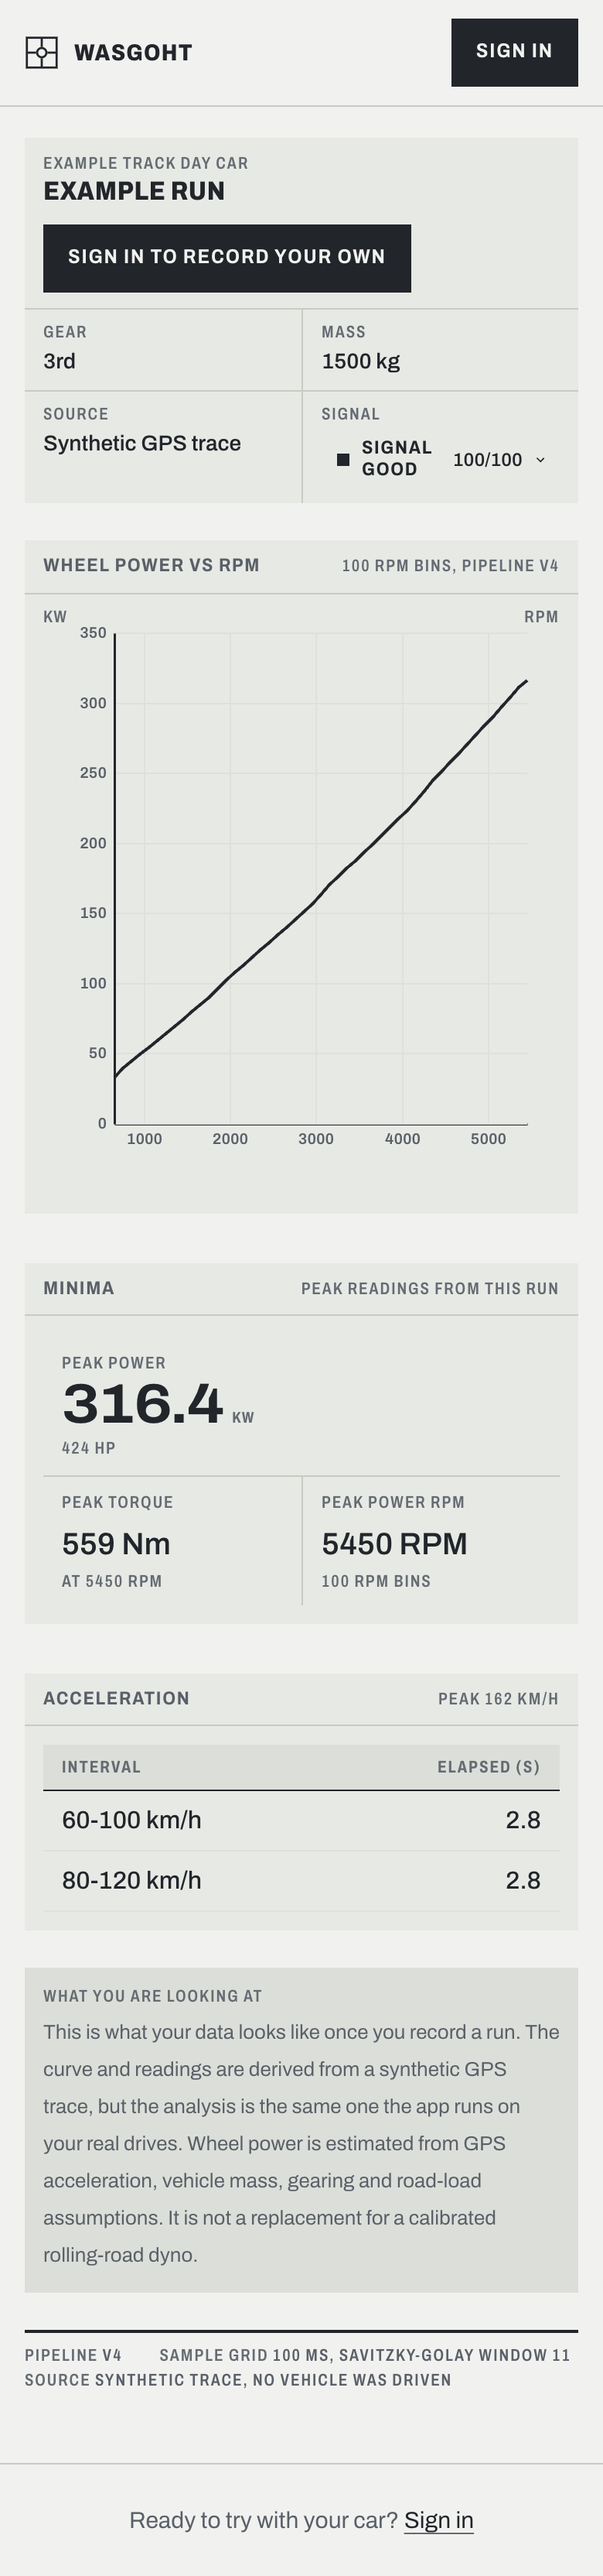
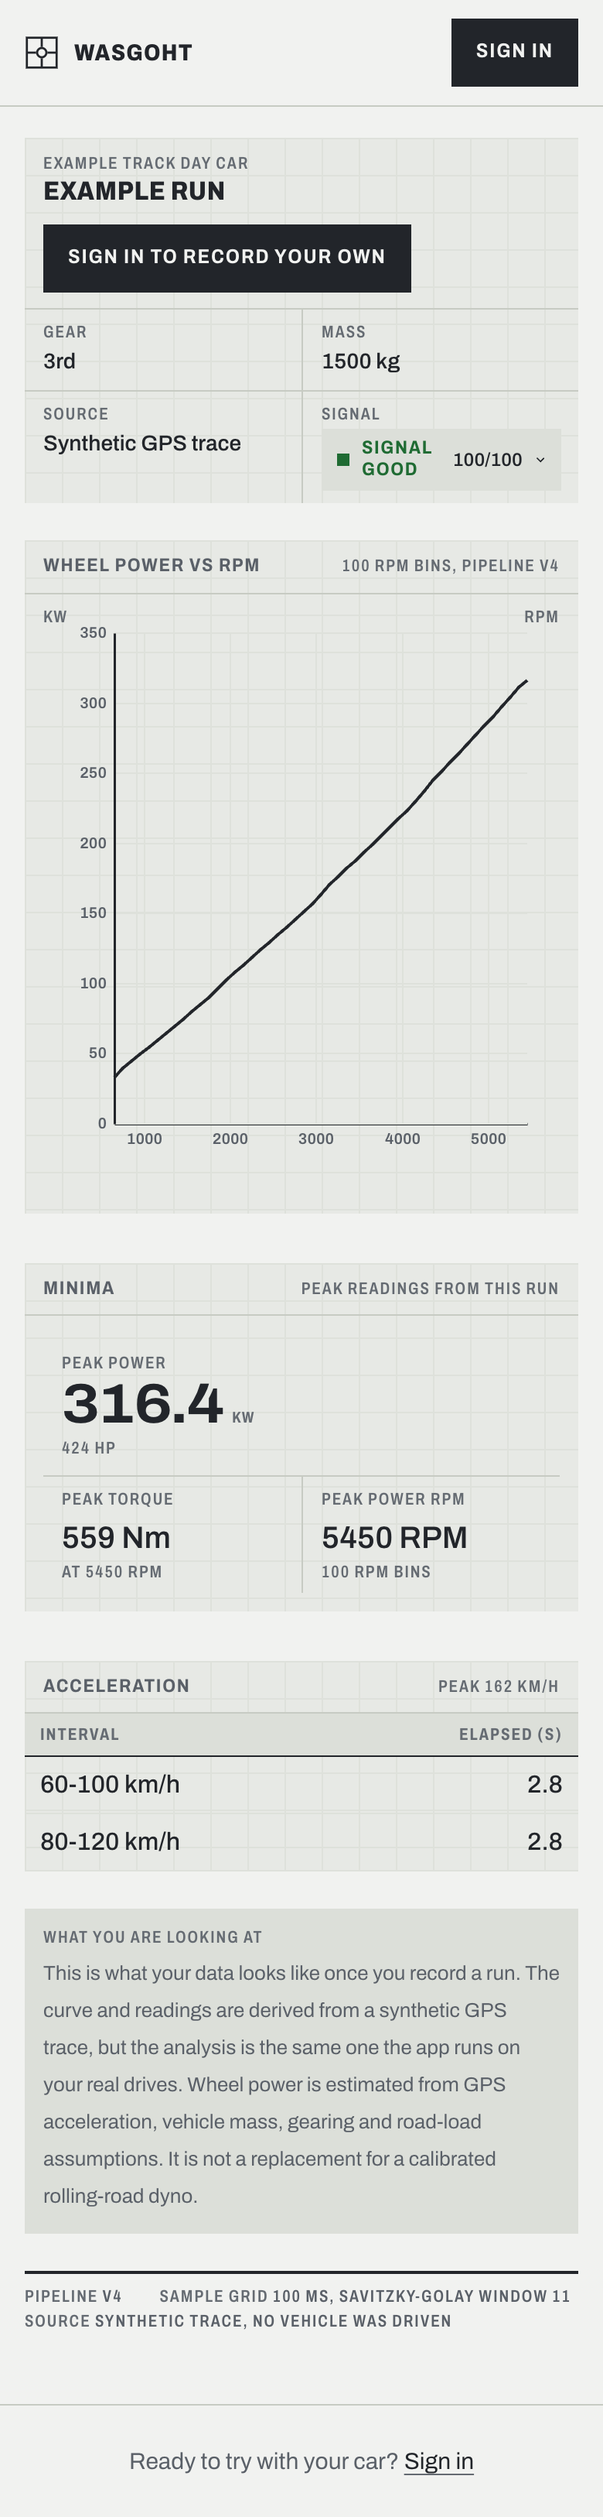
Rebuild all three surfaces on Grid Specimen
The landing page is a Persuade surface again rather than an instrument
sheet. One dark accent plane opens it: monumental type, the four real
pipeline figures, and the track photograph edge to edge inside the same
plane so the opening reads as one object. Statements then sit on the bare
sheet with air, evidence sits on planes, and the plots are drawn large
enough to be focal rather than thumbnails in a side column. Both honesty
caveats moved into real advisory blocks, which is the page's only spent
colour and means exactly what the system says amber means.

Grip's continuity is fixed at the root and at five call sites. The shared
primitive now puts every label in a band inside its block; Grip had five
more blocks setting a local heading above an unlabelled frame, including
one that was the exact inversion (an unframed Zone wrapping a framed
child). DynoRun had four of the same, plus an eyebrow in the cookie
notice.

Density: eleven Zones in Grip and every qualifying Zone in DynoRun now
let the child own its padding, stacks and grid gaps stepped down, table
rows compacted onto the cell rhythm. The trackside screens keep their
76px targets and monumental figures, because those are read at arm's
length through a visor.

Traffic light where it earns it: run quality, signal verdict, GPS lock,
calibration stability, deltas, aborted and degraded states. Two hue
misuses corrected rather than recoloured: load transfer and the duty bar
[…]

diff --git a/src/ui/plate/plate.tsx b/src/ui/plate/plate.tsx
@@ -126,11 +126,18 @@ export function Zone({
 export function PlanView({
   label,
   scale,
+  actions,
   legend,
   children,
 }: {
   label: string;
   scale?: string;
+  /**
+   * Controls that belong to this view (chart mode, an expert toggle). They sit
+   * in the head band with the label, because a control row floating above the
+   * block is the second heading convention this system exists to prevent.
+   */
+  actions?: ReactNode;
   legend?: ReactNode;
   children: ReactNode;
 }) {
@@ -139,6 +146,7 @@ export function PlanView({
       <figcaption className="block-head">
         <span className="t-label">{label}</span>
         {scale && <span className="t-annotation">{scale}</span>}
+        {actions && <div className="ml-auto flex items-center gap-2">{actions}</div>}
       </figcaption>
       <div className="relative">{children}</div>
       {legend && <div className="rule-t block-body">{legend}</div>}
@@ -177,8 +185,11 @@ export function ProfileView({
  * worth is a stated product principle, so it gets a designated place.
  */
 export function NotesBox({ title = 'Notes', children }: { title?: string; children: ReactNode }) {
+  // The plane comes to the prose measure rather than the prose being stretched
+  // to the plane: .t-body caps at 68ch, so a full-width notes block left most
+  // of every row as empty field inside a filled plane.
   return (
-    <aside className="plane-2 block-body">
+    <aside className="plane-2 block-body max-w-[62rem]">
       <p className="t-annotation mb-1.5">{title}</p>
       <div className="t-body text-[0.8125rem] leading-6">{children}</div>
     </aside>

diff --git a/src/index.css b/src/index.css
@@ -78,6 +78,12 @@
   --ease-plate: cubic-bezier(0.16, 1, 0.3, 1);
 }
 
+:root {
+  /* Resolved against :root's own ink, so .plane-ink can redefine every ink
+     token for its descendants without changing the ground it sits on. */
+  --accent-ground: var(--color-ink);
+}
+
 /* The night plate. A real affordance of the world (charts ship a night
    variant), not a bolted-on dark mode. Magenta and amber brighten because the
    sheet went dark; terrain drops back so the ink still leads. */
@@ -537,7 +543,18 @@
      screen exists for. Inverted and gridded in its own ink, so it is the first
      thing seen and still belongs to the same armature. */
   .plane-ink {
-    background-color: var(--color-ink);
+    /* Redefining the ink scale here, rather than listing every register in a
+       descendant rule, is what makes the accent plane usable with primitives
+       that set colour inline: an inline `var(--color-ink-3)` now resolves to
+       the inverted value instead of rendering ink on ink at 2.9:1. */
+    --color-ink: var(--color-sheet);
+    --color-ink-2: color-mix(in srgb, var(--color-sheet) 80%, transparent);
+    --color-ink-3: color-mix(in srgb, var(--color-sheet) 64%, transparent);
+    --color-grid: color-mix(in srgb, var(--color-sheet) 10%, transparent);
+    --color-grid-strong: color-mix(in srgb, var(--color-sheet) 22%, transparent);
+    --color-plane-2: color-mix(in srgb, var(--color-sheet) 14%, transparent);
+
+    background-color: var(--accent-ground);
     color: var(--color-sheet);
     background-image:
       repeating-linear-gradient(

diff --git a/src/ui/calibration/calibration-step-measure.tsx b/src/ui/calibration/calibration-step-measure.tsx
@@ -21,9 +21,6 @@ import {
   type MotionFusionState,
 } from '@/sensors/motion-fusion';
 
-// See ACCENT_INK_3 in run-review-screen.tsx: `.plane-ink` cannot reach the
-// inline ink-3 on Readout's unit, so the property is overridden here.
-const ACCENT_INK_3 = '[--color-ink-3:color-mix(in_srgb,var(--color-sheet)_68%,transparent)]';
 
 interface Props {
   vehicleId: string;
@@ -219,7 +216,7 @@ export function CalibrationStepMeasure({ vehicleId, gear, onConfirmed, onCancel 
             note={`${gear.gear_label}, target ${gear.user_rpm.toLocaleString()} RPM`}
             accent={displaySpeed != null}
             flush
-            className={displaySpeed != null ? ACCENT_INK_3 : ''}
+           
           >
             <div className="px-3 py-4">
               {displaySpeed == null ? (
@@ -312,7 +309,7 @@ export function CalibrationStepMeasure({ vehicleId, gear, onConfirmed, onCancel 
       )}
 
       {state.kind === 'stable' && (
-        <Zone label="Captured" note="Steady hold locked" accent flush className={ACCENT_INK_3}>
+        <Zone label="Captured" note="Steady hold locked" accent flush>
           <div className="px-3 py-4">
             <Readout
               label="Captured speed"

diff --git a/src/ui/run/run-review-screen.tsx b/src/ui/run/run-review-screen.tsx
@@ -57,16 +57,6 @@ const PLAN_LABEL: Record<CurveDisplayMode, string> = {
   both: 'Power and torque vs RPM',
 };
 
-/**
- * Stopgap for a gap in `.plane-ink`: it remaps the label and annotation
- * registers onto the inverted ground but not the annotation *ink* itself, and
- * `Readout` sets its unit's colour inline from `--color-ink-3`, which no
- * descendant rule can beat. Left as-is that unit reads at 2.85:1 on the accent
- * plane. Overriding the property here is inherited by the inline style and
- * lands it at the same 7:1 the annotation register already gets. Delete this
- * the moment `src/index.css` covers `.plane-ink .na` and Readout's unit.
- */
-const ACCENT_INK_3 = '[--color-ink-3:color-mix(in_srgb,var(--color-sheet)_68%,transparent)]';
 
 function oppositeUnit(unit: PowerUnit): PowerUnit {
   return unit === 'kW' ? 'hp' : 'kW';
@@ -555,7 +545,7 @@ export function RunReviewScreen() {
               note="wheel, this run"
               accent={peak != null}
               flush
-              className={peak != null ? ACCENT_INK_3 : ''}
+             
             >
               <div className="px-3 pb-3 pt-2.5">
                 <Readout

diff --git a/src/ui/run/live-run-screen.tsx b/src/ui/run/live-run-screen.tsx
@@ -28,9 +28,6 @@ interface GpsState {
   heading_deg: number | null;
 }
 
-// See ACCENT_INK_3 in run-review-screen.tsx: `.plane-ink` cannot reach the
-// inline ink-3 on Readout's unit, so the property is overridden here.
-const ACCENT_INK_3 = '[--color-ink-3:color-mix(in_srgb,var(--color-sheet)_68%,transparent)]';
 
 const STATE_LABEL: Record<RunState['kind'], string> = {
   idle: 'Starting sensors',
@@ -265,7 +262,7 @@ export function LiveRunScreen() {
           {/* The one earned accent plane on this screen: while the car is
               moving, the live speed IS the sheet. Trackside, so the readout
               keeps its size even though the review screens tightened. */}
-          <Zone label="Live readout" note="Recording" accent flush className={ACCENT_INK_3}>
+          <Zone label="Live readout" note="Recording" accent flush>
             <div className="grid grid-cols-2">
               <div className="px-3 py-4">
                 <Readout label="Speed" value={currentSpeed.toFixed(0)} unit="km/h" size="xl" />

diff --git a/src/ui/calibration/calibration-step-confirm.tsx b/src/ui/calibration/calibration-step-confirm.tsx
@@ -5,9 +5,6 @@ import { describeRecording } from '@/sensors/recording';
 import { formatShortDateTime } from '@/shared/format-time';
 import { NotesBox, PlateButton, Readout, RevisionBar, TitleBlock, Zone } from '@/ui/plate';
 
-// See ACCENT_INK_3 in run-review-screen.tsx: `.plane-ink` cannot reach the
-// inline ink-3 on Readout's unit, so the property is overridden here.
-const ACCENT_INK_3 = '[--color-ink-3:color-mix(in_srgb,var(--color-sheet)_68%,transparent)]';
 
 export function CalibrationStepConfirm({ calibration, onDone }: { calibration: Calibration; onDone: () => void }) {
   const navigate = useNavigate();
@@ -53,7 +50,7 @@ export function CalibrationStepConfirm({ calibration, onDone }: { calibration: C
         note="the chosen hold, as one number"
         accent
         flush
-        className={ACCENT_INK_3}
+       
       >
         <div className="px-3 py-4">
           <Readout

diff --git a/src/ui/calibration/calibration-step-measure-handsfree.tsx b/src/ui/calibration/calibration-step-measure-handsfree.tsx
@@ -37,9 +37,6 @@ interface Props {
   onCancel: () => void;
 }
 
-// See ACCENT_INK_3 in run-review-screen.tsx: `.plane-ink` cannot reach the
-// inline ink-3 on Readout's unit, so the property is overridden here.
-const ACCENT_INK_3 = '[--color-ink-3:color-mix(in_srgb,var(--color-sheet)_68%,transparent)]';
 
 function formatElapsed(ms: number): string {
   const total = Math.max(0, Math.floor(ms / 1000));
@@ -384,7 +381,7 @@ export function CalibrationStepMeasureHandsFree({ vehicleId, gear, onConfirmed, 
             note={`Elapsed ${formatElapsed(elapsed)}`}
             accent={live != null}
             flush
-            className={live != null ? ACCENT_INK_3 : ''}
+           
           >
             <div className="rule-b px-3 py-4">
               {live == null ? (

diff --git a/src/ui/replay-lab/replay-lab-player.tsx b/src/ui/replay-lab/replay-lab-player.tsx
@@ -34,9 +34,6 @@ import {
 import type { VehicleKind } from '@/shared/types';
 import type { RawSpeedSample } from '@/analysis/types';
 
-// See ACCENT_INK_3 in run-review-screen.tsx: `.plane-ink` cannot reach the
-// inline ink-3 on Readout's unit, so the property is overridden here.
-const ACCENT_INK_3 = '[--color-ink-3:color-mix(in_srgb,var(--color-sheet)_68%,transparent)]';
 
 type RolloutMode = 'direct' | 'point';
 
@@ -380,7 +377,7 @@ export function ReplayLabPlayer() {
             note={progress.playing ? 'Playing' : 'Paused'}
             accent
             flush
-            className={ACCENT_INK_3}
+           
           >
             <div className="grid grid-cols-3">
               <div className="px-3 py-3">

diff --git a/src/ui/share/public-share-screen.tsx b/src/ui/share/public-share-screen.tsx
@@ -23,9 +23,6 @@ import {
 } from '@/ui/plate';
 import type { RpmPoint } from '@/shared/types';
 
-// See ACCENT_INK_3 in run-review-screen.tsx: `.plane-ink` cannot reach the
-// inline ink-3 on Readout's unit, so the property is overridden here.
-const ACCENT_INK_3 = '[--color-ink-3:color-mix(in_srgb,var(--color-sheet)_68%,transparent)]';
 
 type LoadState =
   | { kind: 'loading' }
@@ -212,7 +209,7 @@ export function PublicShareScreen() {
               note={`also shown in ${opp}`}
               accent={peak != null}
               flush
-              className={peak != null ? ACCENT_INK_3 : ''}
+             
             >
               <div className="grid grid-cols-2">
                 <div className="px-3 py-3">

diff --git a/src/ui/session/session-screen.tsx b/src/ui/session/session-screen.tsx
@@ -39,9 +39,6 @@ interface GpsState {
   fix_rate_hz: number;
 }
 
-// See ACCENT_INK_3 in run-review-screen.tsx: `.plane-ink` cannot reach the
-// inline ink-3 on Readout's unit, so the property is overridden here.
-const ACCENT_INK_3 = '[--color-ink-3:color-mix(in_srgb,var(--color-sheet)_68%,transparent)]';
 
 function formatElapsed(ms: number): string {
   const total = Math.max(0, Math.floor(ms / 1000));
@@ -384,7 +381,7 @@ export function SessionScreen() {
             note={`Elapsed ${formatElapsed(elapsed)}`}
             accent
             flush
-            className={ACCENT_INK_3}
+           
           >
             <div className="rule-b grid grid-cols-2">
               <div className="px-3 py-4">
